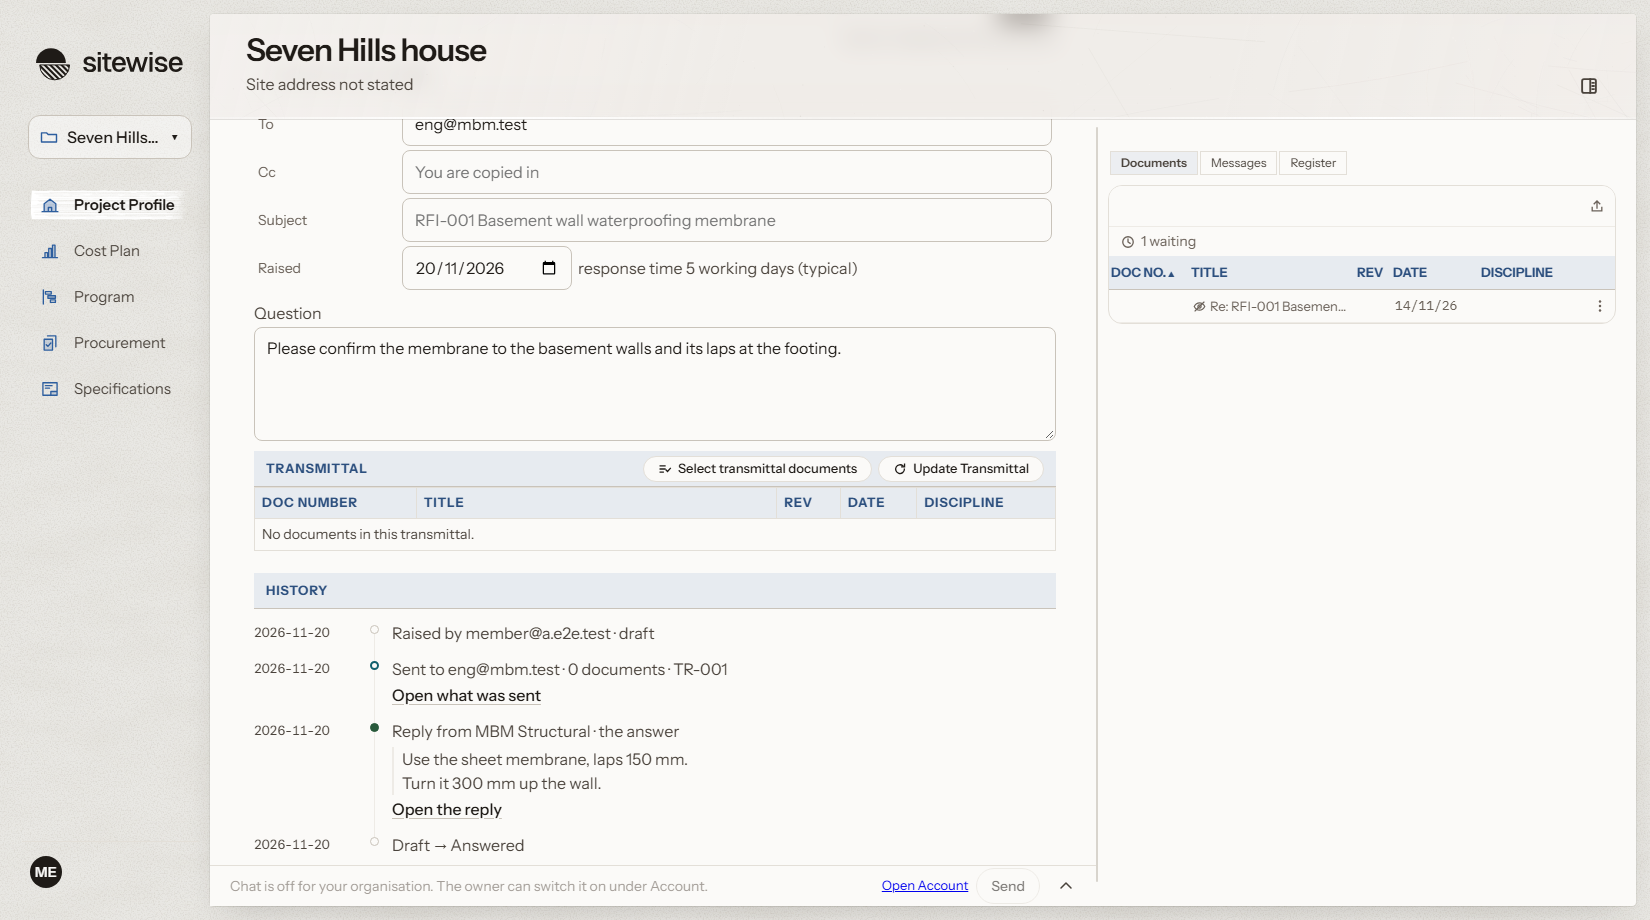
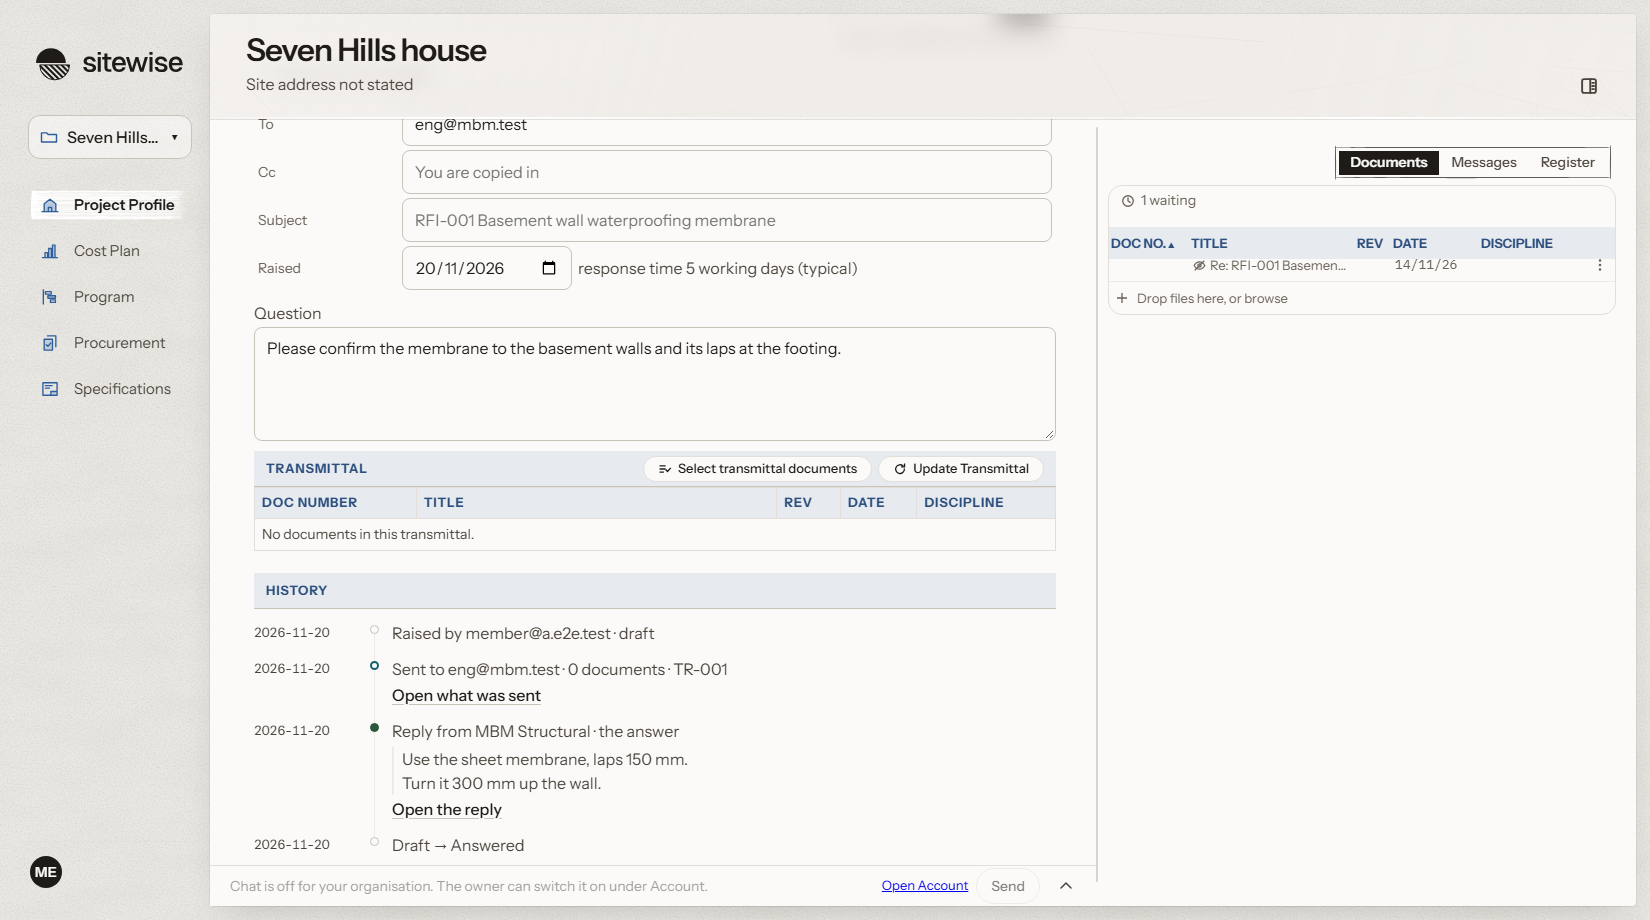
Screens: register panel, row states and table styles tidied; browser tests and screenshots updated

Changed region(s): [[0.68, 0.213, 0.8655, 0.3652], [0.68, 0.1522, 0.9582, 0.213], [0.8964, 0.2435, 0.9582, 0.3043]]

diff --git a/web/src/register.css b/web/src/register.css
@@ -52,7 +52,38 @@
 .panel-side { display: contents; }
 .panel-side[hidden] { display: none; }
 .panel-band { display: flex; flex: none; align-items: center; gap: 8px; min-height: 2.75rem; padding: 0.25rem 0.125rem; }
-.panel-band-tools { display: inline-flex; align-items: center; gap: 6px; margin-left: auto; }
+.panel-band-tools { display: inline-flex; align-items: center; gap: 6px; }
+
+/* Documents | Register (| Messages): one pen-drawn box like Update, the
+   chosen side filled. Always the band's last item, so it stays put when the
+   side changes (owner, 20 November 2026). */
+.panel-switch {
+  --ground-pen: var(--sw-text-primary);
+  position: relative; isolation: isolate; order: 9; margin-left: auto; margin-right: 4px;
+  display: inline-flex; align-items: stretch; height: 30px; padding: 3px;
+  background: var(--sw-surface);
+}
+.panel-switch .ground-frame {
+  -webkit-mask:
+    url("./assets/marks/pen-edge-top.svg") left top / 100% 5px no-repeat,
+    url("./assets/marks/pen-edge-bottom.svg") left bottom / 100% 5px no-repeat,
+    url("./assets/marks/pen-edge-left.svg") left top / 5px 100% no-repeat,
+    url("./assets/marks/pen-edge-right.svg") right top / 5px 100% no-repeat;
+  mask:
+    url("./assets/marks/pen-edge-top.svg") left top / 100% 5px no-repeat,
+    url("./assets/marks/pen-edge-bottom.svg") left bottom / 100% 5px no-repeat,
+    url("./assets/marks/pen-edge-left.svg") left top / 5px 100% no-repeat,
+    url("./assets/marks/pen-edge-right.svg") right top / 5px 100% no-repeat;
+}
+.panel-switch button {
+  display: inline-flex; align-items: center; padding: 0 12px; border: 0; border-radius: 0;
+  background: transparent; color: var(--sw-text-secondary);
+  font: inherit; font-size: var(--fs-sm, 13px); font-weight: 500; white-space: nowrap; cursor: pointer;
+  transition: background-color 150ms ease-out, color 150ms ease-out;
+}
+.panel-switch button:hover:not([aria-selected="true"]) { background: var(--sw-hover-bg); color: var(--sw-text-primary); }
+.panel-switch button[aria-selected="true"] { background: var(--sw-text-primary); color: var(--sw-surface); font-weight: 600; cursor: default; }
+.panel-switch button:focus-visible { outline: 2px solid var(--azure, var(--sw-link)); outline-offset: 2px; }
 .project-side-panel .register-panel {
   display: flex; flex: 1; min-height: 0; flex-direction: column; gap: 6px;
   overflow-x: hidden; overflow-y: auto; padding: 6px 0 8px;
@@ -125,3 +156,4 @@ li[data-tone="check"] .register-what { box-shadow: inset var(--state-check-width
 .register-add-answer { margin: 4px 0 0 calc(6.5rem + 34px); }
 .register-answer-form { margin: 4px 0 0 calc(6.5rem + 34px); }
 .panel-switch-held { color: var(--origin-check); font-weight: 400; }
+.panel-switch button[aria-selected="true"] .panel-switch-held { color: inherit; }

diff --git a/web/src/Invoices.tsx b/web/src/Invoices.tsx
@@ -201,10 +201,14 @@ export function InvoicesTab({ onCostLine, costLineIds, projectId, ledger, filter
               {inv.supplier_id && !ledger.packages.some(p => p.id === inv.supplier_id) && <option value={inv.supplier_id}>{inv.supplier || "Unavailable discipline"}</option>}
               {ledger.packages.map(p => <option key={p.id} value={p.id}>{p.title}</option>)}
             </select></td>
-            <td>{row.line_id && onCostLine && costLineIds?.includes(row.line_id) ? <button type="button" className="inv-open" title="Show activity in cost plan" onClick={() => onCostLine(row.line_id)}>{lineLabel(row.line_id, row.line)}</button> : row.line_id ? lineLabel(row.line_id, row.line) : row.shares > 1 ? "Unallocated" :
-              <select className="field-plain inv-discipline inv-line-pick" aria-label={`Activity line for ${inv.number || inv.filename}`} value="" disabled={!!savingDiscipline || inv.status === "reading"} onChange={e => void saveRowField(inv, "line", e.target.value)}>
+            {/* A one-line invoice always picks its line here, mapped or not, so a wrong
+                automatic mapping is fixed in the row. A split keeps its shares to the panel;
+                "Show … in cost plan" lives in the panel too. */}
+            <td>{row.shares > 1 ? (row.line_id && onCostLine && costLineIds?.includes(row.line_id) ? <button type="button" className="inv-open" title="Show activity in cost plan" onClick={() => onCostLine(row.line_id)}>{lineLabel(row.line_id, row.line)}</button> : row.line_id ? lineLabel(row.line_id, row.line) : "Unallocated") :
+              <select className="field-plain inv-discipline inv-line-pick" aria-label={`Activity line for ${inv.number || inv.filename}`} value={row.line_id ?? ""} disabled={!!savingDiscipline || inv.status === "reading"} onChange={e => { if (e.target.value !== row.line_id) void saveRowField(inv, "line", e.target.value); }}>
                 <option value="">Unallocated</option>
-                {ledger.lines.filter(l => !l.archived && !ledger.groups?.[l.id]).map(l => <option key={l.id} value={l.id}>{activityLabel(l)}</option>)}
+                {row.line_id && !ledger.lines.some(l => l.id === row.line_id) && <option value={row.line_id}>{lineLabel(row.line_id, row.line)}</option>}
+                {ledger.lines.filter(l => l.id === row.line_id || (!l.archived && !ledger.groups?.[l.id])).map(l => <option key={l.id} value={l.id}>{activityLabel(l)}</option>)}
               </select>}</td>
             <td>{month(inv.period)}</td>
             <td className="num">{fmt(row.ex_gst)}</td>

diff --git a/web/src/Profile.tsx b/web/src/Profile.tsx
@@ -1,6 +1,6 @@
 import { Pending } from "./Activity";
 import { IconDownload, IconPlus } from "./icons";
-import { MoreMenu, PageHeaderAction, UpdateButton } from "./PageActions";
+import { MoreMenu, UpdateButton } from "./PageActions";
 // The project profile: what the filed documents say the project is, drafted
 // in the background by Jev and code, polished here by the user. Every value
 // says how it was decided; the user's word is final.
@@ -637,13 +637,14 @@ export function Profile({ projectId, tick, workTick = 0, onJump, onSignedOut, on
 
       {sourcesOpen && <ProfileSources projectId={projectId} data={data} system={sourceSystem} onSystem={setSourceSystem} onClose={() => setSourcesOpen(false)} />}
 
+      {/* Update sits at the panel's top right, beside the summary (owner, 20 Nov
+          2026; it left the title band). The button's own refresh mark turns
+          while busy, so no second spinner in the label. */}
+      <div className="pf-lede-row">
       <section className="pf-lede" aria-label="Summary">
         <ProjectSummary fields={cardFields} />
       </section>
-
-      {/* Update sits in the title band (owner, 10 Nov 2026); the button's own
-          refresh mark turns while busy, so no second spinner in the label. */}
-      <PageHeaderAction surface="profile">
+      <div className="pf-update">
         <UpdateButton onClick={update} disabled={requesting} title={updateTitle(data)} busy={requesting || (data.failed_documents === 0 && data.unread_documents === 0 && data.active_documents > 0)}>
           {requesting ? "Requesting profile update…" : data.failed_documents > 0 ? "Retry project profile" : data.unread_documents > 0 ? "Update" : data.active_documents > 0 ? "Updating project profile…" : data.pending_documents > 0 ? "Profile update queued" : "Update"}
           {!requesting && data.failed_documents === 0 && data.unread_documents > 0 && <span className="update-new" aria-hidden="true">{data.unread_documents} new</span>}
@@ -652,7 +653,8 @@ export function Profile({ projectId, tick, workTick = 0, onJump, onSignedOut, on
           { label: "Download project profile", icon: <IconDownload />, onSelect: () => window.print() },
           { label: "Add part", icon: <IconPlus />, onSelect: () => setAddingPart(true) },
         ]} />
-      </PageHeaderAction>
+      </div>
+      </div>
 
       {/* No "Project" title (owner, 8 Nov 2026): the card's blue head row says it. */}
       <section className="pf-section" aria-label="Project">

diff --git a/web/src/Register.tsx b/web/src/Register.tsx
@@ -355,9 +355,6 @@ export function Register({
             {live === "live" ? "Live" : live === "reconnecting" ? "Reconnecting…" : "Offline, retrying"}
           </span>
         </span>
-        <button type="button" className="reg-tool" onClick={onAddFiles} aria-label="Add files" title="Add files">
-          <IconUpload />
-        </button>
       </div>
       {activity.length > 0 && <p className="reg-activity" role="status" aria-atomic="true"><Pending queued={!activeCount}>{[activeCount > 0 && `${activeCount} processing`, queuedCount > 0 && `${queuedCount} waiting`].filter(Boolean).join(" · ")}</Pending></p>}
       <p className="reg-notice" role="status">{notice}</p>
@@ -378,7 +375,10 @@ export function Register({
         </p>
       )}
       {rows.length === 0 ? (
-        <p className="reg-empty">Drop drawings, reports and schedules anywhere on this page. Each is filed in about a second.</p>
+        <>
+          <p className="reg-empty">Drop drawings, reports and schedules anywhere on this page. Each is filed in about a second.</p>
+          <AddFiles onClick={onAddFiles} />
+        </>
       ) : (
         <table
           className="reg-table"
@@ -430,6 +430,11 @@ export function Register({
               renameRequest={row.doc && rename?.id === row.doc.id ? rename.n : 0}
             />
           ))}
+          {/* The quiet last row is the click path for the picker; dropping
+              anywhere still works (owner, 20 Nov 2026: replaces the icon). */}
+          <tfoot className="reg-add-row">
+            <tr><td colSpan={COLUMNS.length + 1}><AddFiles onClick={onAddFiles} /></td></tr>
+          </tfoot>
         </table>
       )}
       {menu && <RowMenu at={menu} items={menuItems(menu)} label={menu.ids.length > 1 ? `Actions for ${menu.ids.length} documents` : "Document actions"}
@@ -660,4 +665,9 @@ function RegisterRow({
       </tr>
     </tbody>
   );
+}
+
+/** The picker's way in, styled as the table's ghost last row. */
+function AddFiles({ onClick }: { onClick: () => void }) {
+  return <button type="button" className="reg-add" onClick={onClick}><IconPlus /><span>Drop files here, or browse</span></button>;
 }

diff --git a/web/tests/invoices.spec.ts b/web/tests/invoices.spec.ts
@@ -154,13 +154,26 @@ test("ten invoices dropped at once land in the ledger, re-map moves the summary,
   // Re-map one invoice to no line. The Invoices tab shows Unallocated.
   // The cost plan does not grow a row for it, and the lines that still hold invoices keep their amounts.
   await page.getByRole("tab", { name: /Invoices/ }).click();
+  // A mapped row's line is a picker, not a jump to the cost plan: change it in the row, then put it back.
+  const rowLine = table.getByLabel("Activity line for INV-00004", { exact: true });
+  const mapped = await rowLine.inputValue();
+  expect(mapped).not.toBe("");
+  const other = await rowLine.locator("option").evaluateAll((os, cur) => (os as HTMLOptionElement[]).map(o => o.value).find(v => v && v !== cur) ?? "", mapped);
+  expect(other).not.toBe("");
+  await rowLine.selectOption(other);
+  await expect(rowLine).toBeEnabled();
+  await expect(rowLine).toHaveValue(other);
+  await expect(page.getByRole("tab", { name: /Invoices/ })).toHaveAttribute("aria-selected", "true");
+  await rowLine.selectOption(mapped);
+  await expect(rowLine).toBeEnabled();
+  await expect(rowLine).toHaveValue(mapped);
   await table.getByRole("button", { name: "INV-00004", exact: true }).click();
   const panel = page.getByRole("complementary", { name: "Invoice INV-00004" });
   await expect(panel.getByLabel("Ex GST (AUD)")).toHaveValue("1,493.80");
   await panel.getByLabel("Activity line").selectOption({ label: "Unallocated" });
   await expect(panel.getByText("Cleared by you").first()).toBeVisible();
   await panel.getByRole("button", { name: "Close", exact: true }).click();
-  await expect(table.getByRole("row", { name: /INV-00004/ })).toContainText("Unallocated");
+  await expect(rowLine).toHaveValue("");
   await page.getByRole("tab", { name: /Cost plan/i }).click();
   await expect(plan.getByRole("row", { name: /^Total/ })).toBeVisible();
   await expectNoInvoiceFooter(plan);

diff --git a/web/src/cockpit.css b/web/src/cockpit.css
@@ -497,30 +497,36 @@ body {
   color: var(--sw-text-tertiary);
 }
 
-.project-side-panel .reg-tool {
-  display: inline-flex;
-  width: 1.5rem;
-  height: 1.5rem;
-  flex: none;
-  align-items: center;
-  justify-content: center;
+/* With the feed live the head holds only screen-reader text, so it takes
+   no room; it shows again to say "Reconnecting…" or "Offline". */
+.project-side-panel .reg-head:has(> .reg-live[data-state="live"]) {
+  height: 0;
   padding: 0;
   border: 0;
-  border-radius: 999px;
+  overflow: hidden;
+}
+/* ...so the column heads stick to the very top instead of under it. */
+.project-side-panel .register:has(> .reg-head > .reg-live[data-state="live"]) .reg-table thead th { top: 0; }
+
+/* The ghost last row: the picker's click path (owner, 20 Nov 2026). Grey
+   until hovered, like the Cost Plan's new-line row. */
+.reg-add-row td { padding: 0; border: 0; }
+.project-side-panel .reg-add {
+  display: flex;
+  width: 100%;
+  align-items: center;
+  gap: 8px;
+  padding: 0.5rem 0.375rem;
+  border: 0;
   background: transparent;
   color: var(--sw-text-tertiary);
+  font: inherit;
+  text-align: left;
   cursor: pointer;
 }
-
-.project-side-panel .reg-tool svg {
-  width: 0.875rem;
-  height: 0.875rem;
-}
-
-.project-side-panel .reg-tool:hover {
-  background: var(--sw-selection-bg);
-  color: var(--sw-text-primary);
-}
+.project-side-panel .reg-add svg { width: 0.875rem; height: 0.875rem; flex: none; }
+.project-side-panel .reg-add:hover { background: var(--sw-hover-bg); color: var(--sw-text-primary); }
+.project-side-panel .reg-add:focus-visible { outline: 2px solid var(--azure, var(--sw-link)); outline-offset: -2px; }
 
 .project-side-panel .reg-table {
   width: 100%;

diff --git a/web/src/states.css b/web/src/states.css
@@ -74,3 +74,33 @@
 
 /* To check: a value the documents disagree on, in any table cell. */
 :where(td[data-band="red"], th[data-band="red"]) { box-shadow: inset var(--state-check-width) 0 0 var(--state-check-edge); }
+
+/* ---------- A file over a drop target (owner, 20 November 2026) ----------
+   One look for every drop: the document repository, a procurement row or an
+   invited firm's cell, invoices, progress claims, a program file, an RFP term
+   and the guest quote page. A 2px dashed ember line on the target's edge
+   (just inside a row or cell), a faint ember tint behind it. Each target's own rule is gone. */
+:root {
+  --drop-line: 2px dashed var(--ember);
+  --drop-tint: color-mix(in oklab, var(--ember) 9%, transparent);
+}
+.file-drop[data-over="true"],
+.drop[data-over="true"],
+.invoices[data-over] .inv-table-scroll,
+.var-claims[data-over],
+.program.is-dropping .pg-body {
+  outline: var(--drop-line);
+  /* On the target's own edge: a line set inside it would pass under the
+     sticky column heads these panels have. */
+  outline-offset: 0;
+  background: var(--drop-tint);
+}
+/* Rows and cells: the line on the row or cell, the tint on its cells (a
+   cell's own background would hide a tint on the row). */
+.procurement-table tr.row-drop,
+.rfp-terms-table tr[data-drop] { outline: var(--drop-line); outline-offset: -2px; }
+.cockpit-scroll .procurement-table td.firm-slot[data-over] { outline: var(--drop-line); outline-offset: -3px; }
+.procurement-table tr.row-drop > :is(td, th),
+.rfp-terms-table tr[data-drop] > td,
+.cockpit-scroll .procurement-table td.firm-slot[data-over],
+.invoices[data-over] .inv-table[data-empty] tbody td { background: var(--drop-tint); }

diff --git a/web/src/cost-tables.css b/web/src/cost-tables.css
@@ -121,7 +121,6 @@
 
 /* The whole table is the drop zone; dragging files over it outlines it. */
 .invoices { min-height: max(320px, calc(100vh - 300px)); }
-.invoices[data-over] .inv-table-scroll { outline: 1.5px dashed var(--sw-text-tertiary); outline-offset: 2px; }
 
 .cockpit-scroll .inv-table :is(th, td) { padding-left: 12px; padding-right: 12px; }
 .cockpit-scroll .inv-table :is(th, td):first-child { padding-left: 15px; }
@@ -275,8 +274,6 @@
 .cockpit-scroll .procurement-table .firm-chip[data-static] { cursor: default; }
 .cockpit-scroll .procurement-table .firm-chip[data-static]:hover { background: transparent; }
 .cockpit-scroll .procurement-table tr.row-unplaced-combine > td { padding: 8px 10px; }
-/* A quote dragged over an invited firm's cell: the dashed drop outline. */
-.cockpit-scroll .procurement-table td.firm-slot[data-over] { outline: 1.5px dashed var(--sw-text-tertiary); outline-offset: -3px; }
 @media print {
   .firm-name-add, .firm-suggest { display: none !important; }
 }
@@ -303,7 +300,6 @@
 .cockpit-scroll .inv-table .inv-hint td { max-width: 0; overflow: hidden; text-overflow: ellipsis; color: var(--sw-text-secondary); }
 .inv-table .inv-hint svg { width: 16px; height: 16px; margin-right: 4px; vertical-align: -3px; }
 .inv-table .inv-hint strong { font-weight: 500; color: var(--sw-text-primary); }
-.invoices[data-over] .inv-table[data-empty] tbody td { background: var(--ct-selected); }
 
 /* Section headings carry a light grey band so each section's start reads at
    a glance (owner direction, 8 Nov 2026). A tint of the text colour works in

diff --git a/web/src/CockpitFrame.tsx b/web/src/CockpitFrame.tsx
@@ -169,10 +169,9 @@ export function CockpitFrame({ actionSurface = "", nav, title, onRename, subtitl
   const [besideTarget, setBesideTarget] = useState<HTMLDivElement | null>(null);
   const [primaryTarget, setPrimaryTarget] = useState<HTMLDivElement | null>(null);
   const [sideTarget, setSideTarget] = useState<HTMLDivElement | null>(null);
-  const [headerTarget, setHeaderTarget] = useState<HTMLDivElement | null>(null);
   const openSide = useCallback(() => setShowDocuments(true), []);
   return (
-    <PageActionsContext.Provider value={{ surface: actionSurface, target: actionTarget, primaryTarget, besideTarget, headerTarget, sideTarget, openSide }}>
+    <PageActionsContext.Provider value={{ surface: actionSurface, target: actionTarget, primaryTarget, besideTarget, sideTarget, openSide }}>
     <div className={`cockpit-page${wideWorkspace?" specification-page":""}`}>
       <div
         ref={shell}
@@ -197,8 +196,6 @@ export function CockpitFrame({ actionSurface = "", nav, title, onRename, subtitl
             <p className="cockpit-address">{subtitle}</p>
           </div>
           <div className="cockpit-header-actions">
-            {/* A page's own action in the title band; Profile's Update (owner, 10 Nov 2026). */}
-            <div className="header-page-actions" ref={setHeaderTarget} />
             <button
               type="button"
               className="documents-toggle"

diff --git a/web/src/PageActions.tsx b/web/src/PageActions.tsx
@@ -51,13 +51,7 @@ export function MoreMenu({ label, items }: { label: string; items: MenuItem[] })
   </div>;
 }
 
-export const PageActionsContext = createContext<{ surface: string; target: HTMLDivElement | null; primaryTarget: HTMLDivElement | null; besideTarget: HTMLDivElement | null; headerTarget?: HTMLDivElement | null; sideTarget?: HTMLDivElement | null; openSide?: () => void }>({ surface: "", target: null, primaryTarget: null, besideTarget: null });
-
-/** A page action in the title band, beside the documents toggle (Profile's Update; owner, 10 Nov 2026). */
-export function PageHeaderAction({ surface, children }: { surface: string; children: ReactNode }) {
-  const { surface: active, headerTarget } = useContext(PageActionsContext);
-  return active === surface && headerTarget ? createPortal(children, headerTarget) : null;
-}
+export const PageActionsContext = createContext<{ surface: string; target: HTMLDivElement | null; primaryTarget: HTMLDivElement | null; besideTarget: HTMLDivElement | null; sideTarget?: HTMLDivElement | null; openSide?: () => void }>({ surface: "", target: null, primaryTarget: null, besideTarget: null });
 
 /** Details about the thing in the working view (not a document) take the
  * right-hand column in place of the register while they are open. */

diff --git a/web/src/Project.tsx b/web/src/Project.tsx
@@ -58,9 +58,11 @@ function storeRightTab(tab: RightTab) {
 }
 
 /** The right-hand panel's switch: the documents, the project's messages
- * (only when it has mail: intake on, or any message), or the register. */
+ * (only when it has mail: intake on, or any message), or the register.
+ * Drawn as one pen box like Update, the chosen side filled (owner, 20 Nov 2026). */
 function PanelSwitch({ tab, onTab, mail }: { tab: RightTab; onTab: (tab: RightTab) => void; mail: MailState }) {
-  return <div className="mail-toggle panel-switch" role="tablist" aria-label="Right panel">
+  return <div className="panel-switch" role="tablist" aria-label="Right panel">
+    <span className="ground-frame" aria-hidden="true" />
     <button type="button" role="tab" aria-selected={tab === "documents"} onClick={() => onTab("documents")}>Documents</button>
     {mail.available && <button type="button" role="tab" aria-selected={tab === "messages"} onClick={() => onTab("messages")}>Messages{mail.held > 0 ? <span className="panel-switch-held"> · {mail.held} held</span> : null}</button>}
     <button type="button" role="tab" aria-selected={tab === "register"} onClick={() => onTab("register")}>Register</button>

diff --git a/web/src/profile-run.css b/web/src/profile-run.css
@@ -3,10 +3,16 @@
    screen, the update strip, where the marks sit. The motion and marks
    themselves are shared by every surface: trace-motion.css. */
 
-/* ---------- Header: Update in the title band (owner, 10 Nov 2026) ---------- */
+/* ---------- Update at the panel's top right (owner, 20 Nov 2026) ---------- */
 
-.header-page-actions { display: flex; align-items: center; gap: 12px; }
-.header-page-actions:empty { display: none; }
+/* The summary and Update share the first line; the summary wraps before it
+   reaches the button. Update is laid over the line's right end, so it adds no
+   height and the scope keeps its rows on the first screen. */
+.pf-lede-row { position: relative; }
+.pf-lede-row > .pf-lede { padding-right: 15rem; }
+.pf-update { position: absolute; top: 0; right: 0; display: flex; align-items: center; gap: 12px; }
+@media print { .pf-update { display: none; } }
+
 .update-new {
   position: absolute;
   top: -10px;
